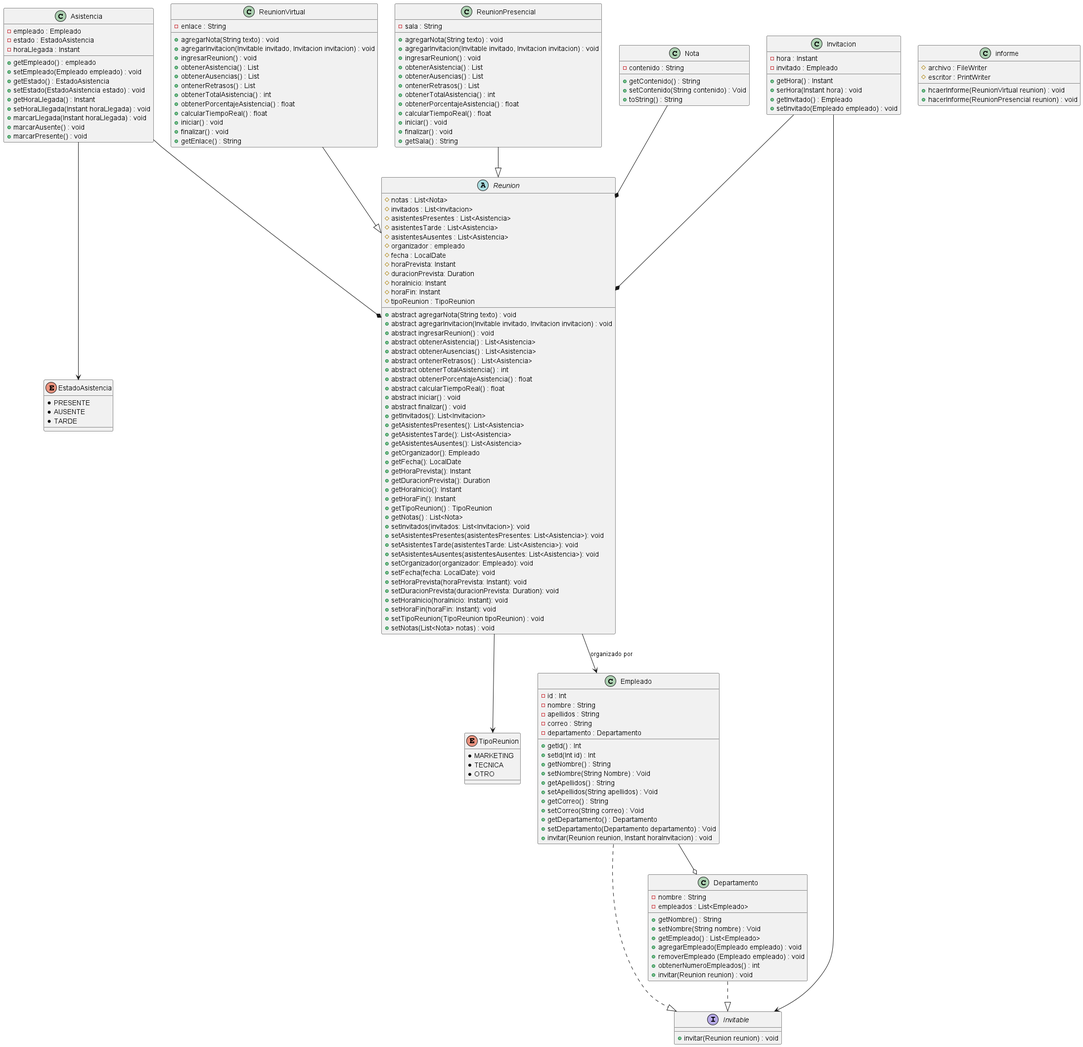
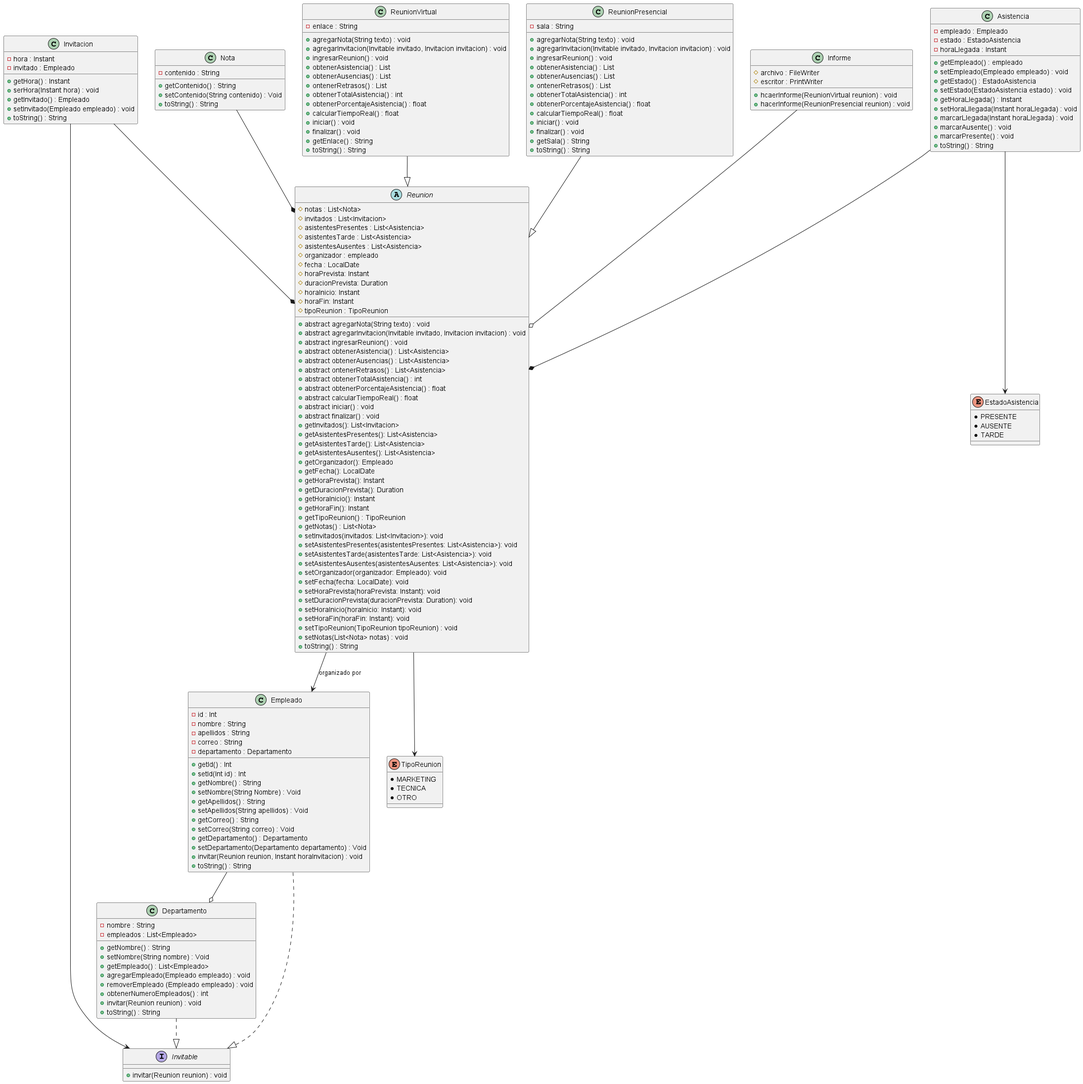
Updated UML, & javadoc, add metodo toString

diff --git a/JavaDoc/member-search-index.js b/JavaDoc/member-search-index.js
@@ -1,1 +1,1 @@
-memberSearchIndex = [{"p":"org.example","c":"Departamento","l":"agregarEmpleado(Empleado)","u":"agregarEmpleado(org.example.Empleado)"},{"p":"org.example","c":"Asistencia","l":"Asistencia(Empleado, EstadoAsistencia)","u":"%3Cinit%3E(org.example.Empleado,org.example.EstadoAsistencia)"},{"p":"org.example","c":"AsistenciaTest","l":"AsistenciaTest()","u":"%3Cinit%3E()"},{"p":"org.example","c":"EstadoAsistencia","l":"AUSENTE"},{"p":"org.example","c":"Departamento","l":"Departamento(String)","u":"%3Cinit%3E(java.lang.String)"},{"p":"org.example","c":"DepartamentoTest","l":"DepartamentoTest()","u":"%3Cinit%3E()"},{"p":"org.example","c":"Empleado","l":"Empleado(int, String, String, String)","u":"%3Cinit%3E(int,java.lang.String,java.lang.String,java.lang.String)"},{"p":"org.example","c":"Empleado","l":"getApellidos()"},{"p":"org.example","c":"Nota","l":"getContenido()"},{"p":"org.example","c":"Empleado","l":"getCorreo()"},{"p":"org.example","c":"Asistencia","l":"getEmpleado()"},{"p":"org.example","c":"Departamento","l":"getEmpleados()"},{"p":"org.example","c":"Asistencia","l":"getEstado()"},{"p":"org.example","c":"Invitacion","l":"getHora()"},{"p":"org.example","c":"Asistencia","l":"getHoraLlegada()"},{"p":"org.example","c":"Empleado","l":"getId()"},{"p":"org.example","c":"Invitacion","l":"getInvitado()"},{"p":"org.example","c":"Departamento","l":"getNombre()"},{"p":"org.example","c":"Empleado","l":"getNombre()"},{"p":"org.example","c":"Empleado","l":"getReuniones()"},{"p":"org.example","c":"Informe","l":"hacerInforme(ReunionPresencial)","u":"hacerInforme(org.example.ReunionPresencial)"},{"p":"org.example","c":"Informe","l":"hacerInforme(ReunionVirtual)","u":"hacerInforme(org.example.ReunionVirtual)"},{"p":"org.example","c":"Informe","l":"Informe()","u":"%3Cinit%3E()"},{"p":"org.example","c":"Invitacion","l":"Invitacion()","u":"%3Cinit%3E()"},{"p":"org.example","c":"Departamento","l":"invitar(Reunion)","u":"invitar(org.example.Reunion)"},{"p":"org.example","c":"Empleado","l":"invitar(Reunion)","u":"invitar(org.example.Reunion)"},{"p":"org.example","c":"Invitable","l":"invitar(Reunion)","u":"invitar(org.example.Reunion)"},{"p":"org.example","c":"Main","l":"Main()","u":"%3Cinit%3E()"},{"p":"org.example","c":"Main","l":"main(String[])","u":"main(java.lang.String[])"},{"p":"org.example","c":"Asistencia","l":"marcarAusente()"},{"p":"org.example","c":"Asistencia","l":"marcarLlegada(Instant)","u":"marcarLlegada(java.time.Instant)"},{"p":"org.example","c":"Asistencia","l":"marcarPresente()"},{"p":"org.example","c":"TipoReunion","l":"MARKETING"},{"p":"org.example","c":"Nota","l":"Nota(String)","u":"%3Cinit%3E(java.lang.String)"},{"p":"org.example","c":"NotaTest","l":"NotaTest()","u":"%3Cinit%3E()"},{"p":"org.example","c":"Departamento","l":"obtenerNumeroEmpleados()"},{"p":"org.example","c":"TipoReunion","l":"OTROS"},{"p":"org.example","c":"EstadoAsistencia","l":"PRESENTE"},{"p":"org.example","c":"Departamento","l":"removerEmpleado(Empleado)","u":"removerEmpleado(org.example.Empleado)"},{"p":"org.example","c":"Empleado","l":"setApellidos(String)","u":"setApellidos(java.lang.String)"},{"p":"org.example","c":"Nota","l":"setContenido(String)","u":"setContenido(java.lang.String)"},{"p":"org.example","c":"Empleado","l":"setCorreo(String)","u":"setCorreo(java.lang.String)"},{"p":"org.example","c":"Asistencia","l":"setEmpleado(Empleado)","u":"setEmpleado(org.example.Empleado)"},{"p":"org.example","c":"Asistencia","l":"setEstado(EstadoAsistencia)","u":"setEstado(org.example.EstadoAsistencia)"},{"p":"org.example","c":"Invitacion","l":"setHora(Instant)","u":"setHora(java.time.Instant)"},{"p":"org.example","c":"Asistencia","l":"setHoraLlegada(Instant)","u":"setHoraLlegada(java.time.Instant)"},{"p":"org.example","c":"Empleado","l":"setId(int)"},{"p":"org.example","c":"Invitacion","l":"setInvitado(Empleado)","u":"setInvitado(org.example.Empleado)"},{"p":"org.example","c":"Departamento","l":"setNombre(String)","u":"setNombre(java.lang.String)"},{"p":"org.example","c":"Empleado","l":"setNombre(String)","u":"setNombre(java.lang.String)"},{"p":"org.example","c":"EstadoAsistencia","l":"TARDE"},{"p":"org.example","c":"TipoReunion","l":"TECNICA"},{"p":"org.example","c":"DepartamentoTest","l":"testAgregarEmpleado()"},{"p":"org.example","c":"AsistenciaTest","l":"testConstructor_EmpleadoNulo()"},{"p":"org.example","c":"AsistenciaTest","l":"testConstructor_EstadoNulo()"},{"p":"org.example","c":"DepartamentoTest","l":"testConstructor_NombreNulo()"},{"p":"org.example","c":"DepartamentoTest","l":"testConstructor_NombreVacio()"},{"p":"org.example","c":"AsistenciaTest","l":"testConstructor()"},{"p":"org.example","c":"DepartamentoTest","l":"testConstructor()"},{"p":"org.example","c":"NotaTest","l":"testConstructorNota()"},{"p":"org.example","c":"NotaTest","l":"testConstructorNotaContenidoNulo()"},{"p":"org.example","c":"NotaTest","l":"testConstructorNotaContenidoVacio()"},{"p":"org.example","c":"DepartamentoTest","l":"testInvitar()"},{"p":"org.example","c":"AsistenciaTest","l":"testMarcarAusente()"},{"p":"org.example","c":"AsistenciaTest","l":"testMarcarLlegada()"},{"p":"org.example","c":"AsistenciaTest","l":"testMarcarPresente()"},{"p":"org.example","c":"DepartamentoTest","l":"testObtenerNumeroEmpleados()"},{"p":"org.example","c":"DepartamentoTest","l":"testRemoverEmpleado()"},{"p":"org.example","c":"NotaTest","l":"testSetContenido()"},{"p":"org.example","c":"Nota","l":"toString()"},{"p":"org.example","c":"EstadoAsistencia","l":"valueOf(String)","u":"valueOf(java.lang.String)"},{"p":"org.example","c":"TipoReunion","l":"valueOf(String)","u":"valueOf(java.lang.String)"},{"p":"org.example","c":"EstadoAsistencia","l":"values()"},{"p":"org.example","c":"TipoReunion","l":"values()"}];updateSearchResults();
+memberSearchIndex = [{"p":"org.example","c":"Departamento","l":"agregarEmpleado(Empleado)","u":"agregarEmpleado(org.example.Empleado)"},{"p":"org.example","c":"Asistencia","l":"Asistencia(Empleado, EstadoAsistencia)","u":"%3Cinit%3E(org.example.Empleado,org.example.EstadoAsistencia)"},{"p":"org.example","c":"AsistenciaTest","l":"AsistenciaTest()","u":"%3Cinit%3E()"},{"p":"org.example","c":"EstadoAsistencia","l":"AUSENTE"},{"p":"org.example","c":"Departamento","l":"Departamento(String)","u":"%3Cinit%3E(java.lang.String)"},{"p":"org.example","c":"DepartamentoTest","l":"DepartamentoTest()","u":"%3Cinit%3E()"},{"p":"org.example","c":"Empleado","l":"Empleado(int, String, String, String)","u":"%3Cinit%3E(int,java.lang.String,java.lang.String,java.lang.String)"},{"p":"org.example","c":"Empleado","l":"getApellidos()"},{"p":"org.example","c":"Nota","l":"getContenido()"},{"p":"org.example","c":"Empleado","l":"getCorreo()"},{"p":"org.example","c":"Asistencia","l":"getEmpleado()"},{"p":"org.example","c":"Departamento","l":"getEmpleados()"},{"p":"org.example","c":"Asistencia","l":"getEstado()"},{"p":"org.example","c":"Invitacion","l":"getHora()"},{"p":"org.example","c":"Asistencia","l":"getHoraLlegada()"},{"p":"org.example","c":"Empleado","l":"getId()"},{"p":"org.example","c":"Invitacion","l":"getInvitado()"},{"p":"org.example","c":"Departamento","l":"getNombre()"},{"p":"org.example","c":"Empleado","l":"getNombre()"},{"p":"org.example","c":"Empleado","l":"getReuniones()"},{"p":"org.example","c":"Informe","l":"hacerInforme(ReunionPresencial)","u":"hacerInforme(org.example.ReunionPresencial)"},{"p":"org.example","c":"Informe","l":"hacerInforme(ReunionVirtual)","u":"hacerInforme(org.example.ReunionVirtual)"},{"p":"org.example","c":"Informe","l":"Informe()","u":"%3Cinit%3E()"},{"p":"org.example","c":"Invitacion","l":"Invitacion()","u":"%3Cinit%3E()"},{"p":"org.example","c":"Departamento","l":"invitar(Reunion)","u":"invitar(org.example.Reunion)"},{"p":"org.example","c":"Empleado","l":"invitar(Reunion)","u":"invitar(org.example.Reunion)"},{"p":"org.example","c":"Invitable","l":"invitar(Reunion)","u":"invitar(org.example.Reunion)"},{"p":"org.example","c":"Main","l":"Main()","u":"%3Cinit%3E()"},{"p":"org.example","c":"Main","l":"main(String[])","u":"main(java.lang.String[])"},{"p":"org.example","c":"Asistencia","l":"marcarAusente()"},{"p":"org.example","c":"Asistencia","l":"marcarLlegada(Instant)","u":"marcarLlegada(java.time.Instant)"},{"p":"org.example","c":"Asistencia","l":"marcarPresente()"},{"p":"org.example","c":"TipoReunion","l":"MARKETING"},{"p":"org.example","c":"Nota","l":"Nota(String)","u":"%3Cinit%3E(java.lang.String)"},{"p":"org.example","c":"NotaTest","l":"NotaTest()","u":"%3Cinit%3E()"},{"p":"org.example","c":"Departamento","l":"obtenerNumeroEmpleados()"},{"p":"org.example","c":"TipoReunion","l":"OTROS"},{"p":"org.example","c":"EstadoAsistencia","l":"PRESENTE"},{"p":"org.example","c":"Departamento","l":"removerEmpleado(Empleado)","u":"removerEmpleado(org.example.Empleado)"},{"p":"org.example","c":"Empleado","l":"setApellidos(String)","u":"setApellidos(java.lang.String)"},{"p":"org.example","c":"Nota","l":"setContenido(String)","u":"setContenido(java.lang.String)"},{"p":"org.example","c":"Empleado","l":"setCorreo(String)","u":"setCorreo(java.lang.String)"},{"p":"org.example","c":"Asistencia","l":"setEmpleado(Empleado)","u":"setEmpleado(org.example.Empleado)"},{"p":"org.example","c":"Asistencia","l":"setEstado(EstadoAsistencia)","u":"setEstado(org.example.EstadoAsistencia)"},{"p":"org.example","c":"Invitacion","l":"setHora(Instant)","u":"setHora(java.time.Instant)"},{"p":"org.example","c":"Asistencia","l":"setHoraLlegada(Instant)","u":"setHoraLlegada(java.time.Instant)"},{"p":"org.example","c":"Empleado","l":"setId(int)"},{"p":"org.example","c":"Invitacion","l":"setInvitado(Empleado)","u":"setInvitado(org.example.Empleado)"},{"p":"org.example","c":"Departamento","l":"setNombre(String)","u":"setNombre(java.lang.String)"},{"p":"org.example","c":"Empleado","l":"setNombre(String)","u":"setNombre(java.lang.String)"},{"p":"org.example","c":"EstadoAsistencia","l":"TARDE"},{"p":"org.example","c":"TipoReunion","l":"TECNICA"},{"p":"org.example","c":"DepartamentoTest","l":"testAgregarEmpleado()"},{"p":"org.example","c":"AsistenciaTest","l":"testConstructor_EmpleadoNulo()"},{"p":"org.example","c":"AsistenciaTest","l":"testConstructor_EstadoNulo()"},{"p":"org.example","c":"DepartamentoTest","l":"testConstructor_NombreNulo()"},{"p":"org.example","c":"DepartamentoTest","l":"testConstructor_NombreVacio()"},{"p":"org.example","c":"AsistenciaTest","l":"testConstructor()"},{"p":"org.example","c":"DepartamentoTest","l":"testConstructor()"},{"p":"org.example","c":"NotaTest","l":"testConstructorNota()"},{"p":"org.example","c":"NotaTest","l":"testConstructorNotaContenidoNulo()"},{"p":"org.example","c":"NotaTest","l":"testConstructorNotaContenidoVacio()"},{"p":"org.example","c":"DepartamentoTest","l":"testInvitar()"},{"p":"org.example","c":"AsistenciaTest","l":"testMarcarAusente()"},{"p":"org.example","c":"AsistenciaTest","l":"testMarcarLlegada()"},{"p":"org.example","c":"AsistenciaTest","l":"testMarcarPresente()"},{"p":"org.example","c":"DepartamentoTest","l":"testObtenerNumeroEmpleados()"},{"p":"org.example","c":"DepartamentoTest","l":"testRemoverEmpleado()"},{"p":"org.example","c":"NotaTest","l":"testSetContenido()"},{"p":"org.example","c":"Asistencia","l":"toString()"},{"p":"org.example","c":"Departamento","l":"toString()"},{"p":"org.example","c":"Empleado","l":"toString()"},{"p":"org.example","c":"Invitacion","l":"toString()"},{"p":"org.example","c":"Nota","l":"toString()"},{"p":"org.example","c":"EstadoAsistencia","l":"valueOf(String)","u":"valueOf(java.lang.String)"},{"p":"org.example","c":"TipoReunion","l":"valueOf(String)","u":"valueOf(java.lang.String)"},{"p":"org.example","c":"EstadoAsistencia","l":"values()"},{"p":"org.example","c":"TipoReunion","l":"values()"}];updateSearchResults();

diff --git a/JavaDoc/org/example/Departamento.html b/JavaDoc/org/example/Departamento.html
@@ -1,7 +1,7 @@
 <!DOCTYPE HTML>
 <html lang="en">
 <head>
-<!-- Generated by javadoc (22) on Thu May 16 05:26:33 CLT 2024 -->
+<!-- Generated by javadoc (22) on Thu May 16 06:13:41 CLT 2024 -->
 <title>Departamento</title>
 <meta name="viewport" content="width=device-width, initial-scale=1">
 <meta http-equiv="Content-Type" content="text/html; charset=utf-8">
@@ -163,12 +163,17 @@ implements <a href="Invitable.html" title="interface in org.example">Invitable</
 <div class="col-last even-row-color method-summary-table method-summary-table-tab2 method-summary-table-tab4">
 <div class="block">Establece el nombre del departamento.</div>
 </div>
+<div class="col-first odd-row-color method-summary-table method-summary-table-tab2 method-summary-table-tab4"><code><a href="https://docs.oracle.com/en/java/javase/22/docs/api/java.base/java/lang/String.html" title="class or interface in java.lang" class="external-link">String</a></code></div>
+<div class="col-second odd-row-color method-summary-table method-summary-table-tab2 method-summary-table-tab4"><code><a href="#toString()" class="member-name-link">toString</a>()</code></div>
+<div class="col-last odd-row-color method-summary-table method-summary-table-tab2 method-summary-table-tab4">
+<div class="block">Devuelve una representación de cadena de este objeto.</div>
+</div>
 </div>
 </div>
 </div>
 <div class="inherited-list">
 <h3 id="methods-inherited-from-class-java.lang.Object">Methods inherited from class&nbsp;java.lang.<a href="https://docs.oracle.com/en/java/javase/22/docs/api/java.base/java/lang/Object.html" title="class or interface in java.lang" class="external-link">Object</a></h3>
-<code><a href="https://docs.oracle.com/en/java/javase/22/docs/api/java.base/java/lang/Object.html#clone()" title="class or interface in java.lang" class="external-link">clone</a>, <a href="https://docs.oracle.com/en/java/javase/22/docs/api/java.base/java/lang/Object.html#equals(java.lang.Object)" title="class or interface in java.lang" class="external-link">equals</a>, <a href="https://docs.oracle.com/en/java/javase/22/docs/api/java.base/java/lang/Object.html#finalize()" title="class or interface in java.lang" class="external-link">finalize</a>, <a href="https://docs.oracle.com/en/java/javase/22/docs/api/java.base/java/lang/Object.html#getClass()" title="class or interface in java.lang" class="external-link">getClass</a>, <a href="https://docs.oracle.com/en/java/javase/22/docs/api/java.base/java/lang/Object.html#hashCode()" title="class or interface in java.lang" class="external-link">hashCode</a>, <a href="https://docs.oracle.com/en/java/javase/22/docs/api/java.base/java/lang/Object.html#notify()" title="class or interface in java.lang" class="external-link">notify</a>, <a href="https://docs.oracle.com/en/java/javase/22/docs/api/java.base/java/lang/Object.html#notifyAll()" title="class or interface in java.lang" class="external-link">notifyAll</a>, <a href="https://docs.oracle.com/en/java/javase/22/docs/api/java.base/java/lang/Object.html#toString()" title="class or interface in java.lang" class="external-link">toString</a>, <a href="https://docs.oracle.com/en/java/javase/22/docs/api/java.base/java/lang/Object.html#wait()" title="class or interface in java.lang" class="external-link">wait</a>, <a href="https://docs.oracle.com/en/java/javase/22/docs/api/java.base/java/lang/Object.html#wait(long)" title="class or interface in java.lang" class="external-link">wait</a>, <a href="https://docs.oracle.com/en/java/javase/22/docs/api/java.base/java/lang/Object.html#wait(long,int)" title="class or interface in java.lang" class="external-link">wait</a></code></div>
+<code><a href="https://docs.oracle.com/en/java/javase/22/docs/api/java.base/java/lang/Object.html#clone()" title="class or interface in java.lang" class="external-link">clone</a>, <a href="https://docs.oracle.com/en/java/javase/22/docs/api/java.base/java/lang/Object.html#equals(java.lang.Object)" title="class or interface in java.lang" class="external-link">equals</a>, <a href="https://docs.oracle.com/en/java/javase/22/docs/api/java.base/java/lang/Object.html#finalize()" title="class or interface in java.lang" class="external-link">finalize</a>, <a href="https://docs.oracle.com/en/java/javase/22/docs/api/java.base/java/lang/Object.html#getClass()" title="class or interface in java.lang" class="external-link">getClass</a>, <a href="https://docs.oracle.com/en/java/javase/22/docs/api/java.base/java/lang/Object.html#hashCode()" title="class or interface in java.lang" class="external-link">hashCode</a>, <a href="https://docs.oracle.com/en/java/javase/22/docs/api/java.base/java/lang/Object.html#notify()" title="class or interface in java.lang" class="external-link">notify</a>, <a href="https://docs.oracle.com/en/java/javase/22/docs/api/java.base/java/lang/Object.html#notifyAll()" title="class or interface in java.lang" class="external-link">notifyAll</a>, <a href="https://docs.oracle.com/en/java/javase/22/docs/api/java.base/java/lang/Object.html#wait()" title="class or interface in java.lang" class="external-link">wait</a>, <a href="https://docs.oracle.com/en/java/javase/22/docs/api/java.base/java/lang/Object.html#wait(long)" title="class or interface in java.lang" class="external-link">wait</a>, <a href="https://docs.oracle.com/en/java/javase/22/docs/api/java.base/java/lang/Object.html#wait(long,int)" title="class or interface in java.lang" class="external-link">wait</a></code></div>
 </section>
 </li>
 </ul>
@@ -292,6 +297,21 @@ implements <a href="Invitable.html" title="interface in org.example">Invitable</
 <dd><code><a href="Invitable.html#invitar(org.example.Reunion)">invitar</a></code>&nbsp;in interface&nbsp;<code><a href="Invitable.html" title="interface in org.example">Invitable</a></code></dd>
 <dt>Parameters:</dt>
 <dd><code>reunion</code> - La reunión a la que se invita a los empleados.</dd>
+</dl>
+</div>
+</section>
+</li>
+<li>
+<section class="detail" id="toString()">
+<h3>toString</h3>
+<div class="horizontal-scroll">
+<div class="member-signature"><span class="modifiers">public</span>&nbsp;<span class="return-type"><a href="https://docs.oracle.com/en/java/javase/22/docs/api/java.base/java/lang/String.html" title="class or interface in java.lang" class="external-link">String</a></span>&nbsp;<span class="element-name">toString</span>()</div>
+<div class="block">Devuelve una representación de cadena de este objeto.</div>
+<dl class="notes">
+<dt>Overrides:</dt>
+<dd><code><a href="https://docs.oracle.com/en/java/javase/22/docs/api/java.base/java/lang/Object.html#toString()" title="class or interface in java.lang" class="external-link">toString</a></code>&nbsp;in class&nbsp;<code><a href="https://docs.oracle.com/en/java/javase/22/docs/api/java.base/java/lang/Object.html" title="class or interface in java.lang" class="external-link">Object</a></code></dd>
+<dt>Returns:</dt>
+<dd>Una cadena que representa el objeto Departamento.</dd>
 </dl>
 </div>
 </section>

diff --git a/JavaDoc/org/example/Empleado.html b/JavaDoc/org/example/Empleado.html
@@ -1,7 +1,7 @@
 <!DOCTYPE HTML>
 <html lang="en">
 <head>
-<!-- Generated by javadoc (22) on Thu May 16 05:26:33 CLT 2024 -->
+<!-- Generated by javadoc (22) on Thu May 16 06:13:41 CLT 2024 -->
 <title>Empleado</title>
 <meta name="viewport" content="width=device-width, initial-scale=1">
 <meta http-equiv="Content-Type" content="text/html; charset=utf-8">
@@ -181,12 +181,17 @@ implements <a href="Invitable.html" title="interface in org.example">Invitable</
 <div class="col-last odd-row-color method-summary-table method-summary-table-tab2 method-summary-table-tab4">
 <div class="block">Establece el nombre del empleado.</div>
 </div>
+<div class="col-first even-row-color method-summary-table method-summary-table-tab2 method-summary-table-tab4"><code><a href="https://docs.oracle.com/en/java/javase/22/docs/api/java.base/java/lang/String.html" title="class or interface in java.lang" class="external-link">String</a></code></div>
+<div class="col-second even-row-color method-summary-table method-summary-table-tab2 method-summary-table-tab4"><code><a href="#toString()" class="member-name-link">toString</a>()</code></div>
+<div class="col-last even-row-color method-summary-table method-summary-table-tab2 method-summary-table-tab4">
+<div class="block">Devuelve una representación de cadena de este objeto.</div>
+</div>
 </div>
 </div>
 </div>
 <div class="inherited-list">
 <h3 id="methods-inherited-from-class-java.lang.Object">Methods inherited from class&nbsp;java.lang.<a href="https://docs.oracle.com/en/java/javase/22/docs/api/java.base/java/lang/Object.html" title="class or interface in java.lang" class="external-link">Object</a></h3>
-<code><a href="https://docs.oracle.com/en/java/javase/22/docs/api/java.base/java/lang/Object.html#clone()" title="class or interface in java.lang" class="external-link">clone</a>, <a href="https://docs.oracle.com/en/java/javase/22/docs/api/java.base/java/lang/Object.html#equals(java.lang.Object)" title="class or interface in java.lang" class="external-link">equals</a>, <a href="https://docs.oracle.com/en/java/javase/22/docs/api/java.base/java/lang/Object.html#finalize()" title="class or interface in java.lang" class="external-link">finalize</a>, <a href="https://docs.oracle.com/en/java/javase/22/docs/api/java.base/java/lang/Object.html#getClass()" title="class or interface in java.lang" class="external-link">getClass</a>, <a href="https://docs.oracle.com/en/java/javase/22/docs/api/java.base/java/lang/Object.html#hashCode()" title="class or interface in java.lang" class="external-link">hashCode</a>, <a href="https://docs.oracle.com/en/java/javase/22/docs/api/java.base/java/lang/Object.html#notify()" title="class or interface in java.lang" class="external-link">notify</a>, <a href="https://docs.oracle.com/en/java/javase/22/docs/api/java.base/java/lang/Object.html#notifyAll()" title="class or interface in java.lang" class="external-link">notifyAll</a>, <a href="https://docs.oracle.com/en/java/javase/22/docs/api/java.base/java/lang/Object.html#toString()" title="class or interface in java.lang" class="external-link">toString</a>, <a href="https://docs.oracle.com/en/java/javase/22/docs/api/java.base/java/lang/Object.html#wait()" title="class or interface in java.lang" class="external-link">wait</a>, <a href="https://docs.oracle.com/en/java/javase/22/docs/api/java.base/java/lang/Object.html#wait(long)" title="class or interface in java.lang" class="external-link">wait</a>, <a href="https://docs.oracle.com/en/java/javase/22/docs/api/java.base/java/lang/Object.html#wait(long,int)" title="class or interface in java.lang" class="external-link">wait</a></code></div>
+<code><a href="https://docs.oracle.com/en/java/javase/22/docs/api/java.base/java/lang/Object.html#clone()" title="class or interface in java.lang" class="external-link">clone</a>, <a href="https://docs.oracle.com/en/java/javase/22/docs/api/java.base/java/lang/Object.html#equals(java.lang.Object)" title="class or interface in java.lang" class="external-link">equals</a>, <a href="https://docs.oracle.com/en/java/javase/22/docs/api/java.base/java/lang/Object.html#finalize()" title="class or interface in java.lang" class="external-link">finalize</a>, <a href="https://docs.oracle.com/en/java/javase/22/docs/api/java.base/java/lang/Object.html#getClass()" title="class or interface in java.lang" class="external-link">getClass</a>, <a href="https://docs.oracle.com/en/java/javase/22/docs/api/java.base/java/lang/Object.html#hashCode()" title="class or interface in java.lang" class="external-link">hashCode</a>, <a href="https://docs.oracle.com/en/java/javase/22/docs/api/java.base/java/lang/Object.html#notify()" title="class or interface in java.lang" class="external-link">notify</a>, <a href="https://docs.oracle.com/en/java/javase/22/docs/api/java.base/java/lang/Object.html#notifyAll()" title="class or interface in java.lang" class="external-link">notifyAll</a>, <a href="https://docs.oracle.com/en/java/javase/22/docs/api/java.base/java/lang/Object.html#wait()" title="class or interface in java.lang" class="external-link">wait</a>, <a href="https://docs.oracle.com/en/java/javase/22/docs/api/java.base/java/lang/Object.html#wait(long)" title="class or interface in java.lang" class="external-link">wait</a>, <a href="https://docs.oracle.com/en/java/javase/22/docs/api/java.base/java/lang/Object.html#wait(long,int)" title="class or interface in java.lang" class="external-link">wait</a></code></div>
 </section>
 </li>
 </ul>
@@ -355,6 +360,21 @@ implements <a href="Invitable.html" title="interface in org.example">Invitable</
 <dd><code><a href="Invitable.html#invitar(org.example.Reunion)">invitar</a></code>&nbsp;in interface&nbsp;<code><a href="Invitable.html" title="interface in org.example">Invitable</a></code></dd>
 <dt>Parameters:</dt>
 <dd><code>reunion</code> - La reunión a la que se invita al empleado.</dd>
+</dl>
+</div>
+</section>
+</li>
+<li>
+<section class="detail" id="toString()">
+<h3>toString</h3>
+<div class="horizontal-scroll">
+<div class="member-signature"><span class="modifiers">public</span>&nbsp;<span class="return-type"><a href="https://docs.oracle.com/en/java/javase/22/docs/api/java.base/java/lang/String.html" title="class or interface in java.lang" class="external-link">String</a></span>&nbsp;<span class="element-name">toString</span>()</div>
+<div class="block">Devuelve una representación de cadena de este objeto.</div>
+<dl class="notes">
+<dt>Overrides:</dt>
+<dd><code><a href="https://docs.oracle.com/en/java/javase/22/docs/api/java.base/java/lang/Object.html#toString()" title="class or interface in java.lang" class="external-link">toString</a></code>&nbsp;in class&nbsp;<code><a href="https://docs.oracle.com/en/java/javase/22/docs/api/java.base/java/lang/Object.html" title="class or interface in java.lang" class="external-link">Object</a></code></dd>
+<dt>Returns:</dt>
+<dd>Una cadena que representa el objeto Empleado.</dd>
 </dl>
 </div>
 </section>

diff --git a/JavaDoc/org/example/Asistencia.html b/JavaDoc/org/example/Asistencia.html
@@ -1,7 +1,7 @@
 <!DOCTYPE HTML>
 <html lang="en">
 <head>
-<!-- Generated by javadoc (22) on Thu May 16 05:26:33 CLT 2024 -->
+<!-- Generated by javadoc (22) on Thu May 16 06:13:41 CLT 2024 -->
 <title>Asistencia</title>
 <meta name="viewport" content="width=device-width, initial-scale=1">
 <meta http-equiv="Content-Type" content="text/html; charset=utf-8">
@@ -169,12 +169,17 @@ loadScripts(document, 'script');</script>
 <div class="col-last even-row-color method-summary-table method-summary-table-tab2 method-summary-table-tab4">
 <div class="block">Establece la hora de llegada del empleado.</div>
 </div>
+<div class="col-first odd-row-color method-summary-table method-summary-table-tab2 method-summary-table-tab4"><code><a href="https://docs.oracle.com/en/java/javase/22/docs/api/java.base/java/lang/String.html" title="class or interface in java.lang" class="external-link">String</a></code></div>
+<div class="col-second odd-row-color method-summary-table method-summary-table-tab2 method-summary-table-tab4"><code><a href="#toString()" class="member-name-link">toString</a>()</code></div>
+<div class="col-last odd-row-color method-summary-table method-summary-table-tab2 method-summary-table-tab4">
+<div class="block">Devuelve una representación de cadena de este objeto.</div>
+</div>
 </div>
 </div>
 </div>
 <div class="inherited-list">
 <h3 id="methods-inherited-from-class-java.lang.Object">Methods inherited from class&nbsp;java.lang.<a href="https://docs.oracle.com/en/java/javase/22/docs/api/java.base/java/lang/Object.html" title="class or interface in java.lang" class="external-link">Object</a></h3>
-<code><a href="https://docs.oracle.com/en/java/javase/22/docs/api/java.base/java/lang/Object.html#clone()" title="class or interface in java.lang" class="external-link">clone</a>, <a href="https://docs.oracle.com/en/java/javase/22/docs/api/java.base/java/lang/Object.html#equals(java.lang.Object)" title="class or interface in java.lang" class="external-link">equals</a>, <a href="https://docs.oracle.com/en/java/javase/22/docs/api/java.base/java/lang/Object.html#finalize()" title="class or interface in java.lang" class="external-link">finalize</a>, <a href="https://docs.oracle.com/en/java/javase/22/docs/api/java.base/java/lang/Object.html#getClass()" title="class or interface in java.lang" class="external-link">getClass</a>, <a href="https://docs.oracle.com/en/java/javase/22/docs/api/java.base/java/lang/Object.html#hashCode()" title="class or interface in java.lang" class="external-link">hashCode</a>, <a href="https://docs.oracle.com/en/java/javase/22/docs/api/java.base/java/lang/Object.html#notify()" title="class or interface in java.lang" class="external-link">notify</a>, <a href="https://docs.oracle.com/en/java/javase/22/docs/api/java.base/java/lang/Object.html#notifyAll()" title="class or interface in java.lang" class="external-link">notifyAll</a>, <a href="https://docs.oracle.com/en/java/javase/22/docs/api/java.base/java/lang/Object.html#toString()" title="class or interface in java.lang" class="external-link">toString</a>, <a href="https://docs.oracle.com/en/java/javase/22/docs/api/java.base/java/lang/Object.html#wait()" title="class or interface in java.lang" class="external-link">wait</a>, <a href="https://docs.oracle.com/en/java/javase/22/docs/api/java.base/java/lang/Object.html#wait(long)" title="class or interface in java.lang" class="external-link">wait</a>, <a href="https://docs.oracle.com/en/java/javase/22/docs/api/java.base/java/lang/Object.html#wait(long,int)" title="class or interface in java.lang" class="external-link">wait</a></code></div>
+<code><a href="https://docs.oracle.com/en/java/javase/22/docs/api/java.base/java/lang/Object.html#clone()" title="class or interface in java.lang" class="external-link">clone</a>, <a href="https://docs.oracle.com/en/java/javase/22/docs/api/java.base/java/lang/Object.html#equals(java.lang.Object)" title="class or interface in java.lang" class="external-link">equals</a>, <a href="https://docs.oracle.com/en/java/javase/22/docs/api/java.base/java/lang/Object.html#finalize()" title="class or interface in java.lang" class="external-link">finalize</a>, <a href="https://docs.oracle.com/en/java/javase/22/docs/api/java.base/java/lang/Object.html#getClass()" title="class or interface in java.lang" class="external-link">getClass</a>, <a href="https://docs.oracle.com/en/java/javase/22/docs/api/java.base/java/lang/Object.html#hashCode()" title="class or interface in java.lang" class="external-link">hashCode</a>, <a href="https://docs.oracle.com/en/java/javase/22/docs/api/java.base/java/lang/Object.html#notify()" title="class or interface in java.lang" class="external-link">notify</a>, <a href="https://docs.oracle.com/en/java/javase/22/docs/api/java.base/java/lang/Object.html#notifyAll()" title="class or interface in java.lang" class="external-link">notifyAll</a>, <a href="https://docs.oracle.com/en/java/javase/22/docs/api/java.base/java/lang/Object.html#wait()" title="class or interface in java.lang" class="external-link">wait</a>, <a href="https://docs.oracle.com/en/java/javase/22/docs/api/java.base/java/lang/Object.html#wait(long)" title="class or interface in java.lang" class="external-link">wait</a>, <a href="https://docs.oracle.com/en/java/javase/22/docs/api/java.base/java/lang/Object.html#wait(long,int)" title="class or interface in java.lang" class="external-link">wait</a></code></div>
 </section>
 </li>
 </ul>
@@ -317,6 +322,21 @@ loadScripts(document, 'script');</script>
 <div class="horizontal-scroll">
 <div class="member-signature"><span class="modifiers">public</span>&nbsp;<span class="return-type">void</span>&nbsp;<span class="element-name">marcarPresente</span>()</div>
 <div class="block">Marca al empleado como presente.</div>
+</div>
+</section>
+</li>
+<li>
+<section class="detail" id="toString()">
+<h3>toString</h3>
+<div class="horizontal-scroll">
+<div class="member-signature"><span class="modifiers">public</span>&nbsp;<span class="return-type"><a href="https://docs.oracle.com/en/java/javase/22/docs/api/java.base/java/lang/String.html" title="class or interface in java.lang" class="external-link">String</a></span>&nbsp;<span class="element-name">toString</span>()</div>
+<div class="block">Devuelve una representación de cadena de este objeto.</div>
+<dl class="notes">
+<dt>Overrides:</dt>
+<dd><code><a href="https://docs.oracle.com/en/java/javase/22/docs/api/java.base/java/lang/Object.html#toString()" title="class or interface in java.lang" class="external-link">toString</a></code>&nbsp;in class&nbsp;<code><a href="https://docs.oracle.com/en/java/javase/22/docs/api/java.base/java/lang/Object.html" title="class or interface in java.lang" class="external-link">Object</a></code></dd>
+<dt>Returns:</dt>
+<dd>Una cadena que representa el objeto Asistencia.</dd>
+</dl>
 </div>
 </section>
 </li>

diff --git a/JavaDoc/org/example/Invitacion.html b/JavaDoc/org/example/Invitacion.html
@@ -1,7 +1,7 @@
 <!DOCTYPE HTML>
 <html lang="en">
 <head>
-<!-- Generated by javadoc (22) on Thu May 16 05:26:33 CLT 2024 -->
+<!-- Generated by javadoc (22) on Thu May 16 06:13:41 CLT 2024 -->
 <title>Invitacion</title>
 <meta name="viewport" content="width=device-width, initial-scale=1">
 <meta http-equiv="Content-Type" content="text/html; charset=utf-8">
@@ -142,12 +142,17 @@ loadScripts(document, 'script');</script>
 <div class="col-last odd-row-color method-summary-table method-summary-table-tab2 method-summary-table-tab4">
 <div class="block">Establece el empleado invitado.</div>
 </div>
+<div class="col-first even-row-color method-summary-table method-summary-table-tab2 method-summary-table-tab4"><code><a href="https://docs.oracle.com/en/java/javase/22/docs/api/java.base/java/lang/String.html" title="class or interface in java.lang" class="external-link">String</a></code></div>
+<div class="col-second even-row-color method-summary-table method-summary-table-tab2 method-summary-table-tab4"><code><a href="#toString()" class="member-name-link">toString</a>()</code></div>
+<div class="col-last even-row-color method-summary-table method-summary-table-tab2 method-summary-table-tab4">
+<div class="block">Devuelve una representación de cadena de este objeto.</div>
+</div>
 </div>
 </div>
 </div>
 <div class="inherited-list">
 <h3 id="methods-inherited-from-class-java.lang.Object">Methods inherited from class&nbsp;java.lang.<a href="https://docs.oracle.com/en/java/javase/22/docs/api/java.base/java/lang/Object.html" title="class or interface in java.lang" class="external-link">Object</a></h3>
-<code><a href="https://docs.oracle.com/en/java/javase/22/docs/api/java.base/java/lang/Object.html#clone()" title="class or interface in java.lang" class="external-link">clone</a>, <a href="https://docs.oracle.com/en/java/javase/22/docs/api/java.base/java/lang/Object.html#equals(java.lang.Object)" title="class or interface in java.lang" class="external-link">equals</a>, <a href="https://docs.oracle.com/en/java/javase/22/docs/api/java.base/java/lang/Object.html#finalize()" title="class or interface in java.lang" class="external-link">finalize</a>, <a href="https://docs.oracle.com/en/java/javase/22/docs/api/java.base/java/lang/Object.html#getClass()" title="class or interface in java.lang" class="external-link">getClass</a>, <a href="https://docs.oracle.com/en/java/javase/22/docs/api/java.base/java/lang/Object.html#hashCode()" title="class or interface in java.lang" class="external-link">hashCode</a>, <a href="https://docs.oracle.com/en/java/javase/22/docs/api/java.base/java/lang/Object.html#notify()" title="class or interface in java.lang" class="external-link">notify</a>, <a href="https://docs.oracle.com/en/java/javase/22/docs/api/java.base/java/lang/Object.html#notifyAll()" title="class or interface in java.lang" class="external-link">notifyAll</a>, <a href="https://docs.oracle.com/en/java/javase/22/docs/api/java.base/java/lang/Object.html#toString()" title="class or interface in java.lang" class="external-link">toString</a>, <a href="https://docs.oracle.com/en/java/javase/22/docs/api/java.base/java/lang/Object.html#wait()" title="class or interface in java.lang" class="external-link">wait</a>, <a href="https://docs.oracle.com/en/java/javase/22/docs/api/java.base/java/lang/Object.html#wait(long)" title="class or interface in java.lang" class="external-link">wait</a>, <a href="https://docs.oracle.com/en/java/javase/22/docs/api/java.base/java/lang/Object.html#wait(long,int)" title="class or interface in java.lang" class="external-link">wait</a></code></div>
+<code><a href="https://docs.oracle.com/en/java/javase/22/docs/api/java.base/java/lang/Object.html#clone()" title="class or interface in java.lang" class="external-link">clone</a>, <a href="https://docs.oracle.com/en/java/javase/22/docs/api/java.base/java/lang/Object.html#equals(java.lang.Object)" title="class or interface in java.lang" class="external-link">equals</a>, <a href="https://docs.oracle.com/en/java/javase/22/docs/api/java.base/java/lang/Object.html#finalize()" title="class or interface in java.lang" class="external-link">finalize</a>, <a href="https://docs.oracle.com/en/java/javase/22/docs/api/java.base/java/lang/Object.html#getClass()" title="class or interface in java.lang" class="external-link">getClass</a>, <a href="https://docs.oracle.com/en/java/javase/22/docs/api/java.base/java/lang/Object.html#hashCode()" title="class or interface in java.lang" class="external-link">hashCode</a>, <a href="https://docs.oracle.com/en/java/javase/22/docs/api/java.base/java/lang/Object.html#notify()" title="class or interface in java.lang" class="external-link">notify</a>, <a href="https://docs.oracle.com/en/java/javase/22/docs/api/java.base/java/lang/Object.html#notifyAll()" title="class or interface in java.lang" class="external-link">notifyAll</a>, <a href="https://docs.oracle.com/en/java/javase/22/docs/api/java.base/java/lang/Object.html#wait()" title="class or interface in java.lang" class="external-link">wait</a>, <a href="https://docs.oracle.com/en/java/javase/22/docs/api/java.base/java/lang/Object.html#wait(long)" title="class or interface in java.lang" class="external-link">wait</a>, <a href="https://docs.oracle.com/en/java/javase/22/docs/api/java.base/java/lang/Object.html#wait(long,int)" title="class or interface in java.lang" class="external-link">wait</a></code></div>
 </section>
 </li>
 </ul>
@@ -225,6 +230,21 @@ loadScripts(document, 'script');</script>
 <dl class="notes">
 <dt>Parameters:</dt>
 <dd><code>invitado</code> - El empleado invitado a establecer.</dd>
+</dl>
+</div>
+</section>
+</li>
+<li>
+<section class="detail" id="toString()">
+<h3>toString</h3>
+<div class="horizontal-scroll">
+<div class="member-signature"><span class="modifiers">public</span>&nbsp;<span class="return-type"><a href="https://docs.oracle.com/en/java/javase/22/docs/api/java.base/java/lang/String.html" title="class or interface in java.lang" class="external-link">String</a></span>&nbsp;<span class="element-name">toString</span>()</div>
+<div class="block">Devuelve una representación de cadena de este objeto.</div>
+<dl class="notes">
+<dt>Overrides:</dt>
+<dd><code><a href="https://docs.oracle.com/en/java/javase/22/docs/api/java.base/java/lang/Object.html#toString()" title="class or interface in java.lang" class="external-link">toString</a></code>&nbsp;in class&nbsp;<code><a href="https://docs.oracle.com/en/java/javase/22/docs/api/java.base/java/lang/Object.html" title="class or interface in java.lang" class="external-link">Object</a></code></dd>
+<dt>Returns:</dt>
+<dd>Una cadena que representa el objeto Invitacion.</dd>
 </dl>
 </div>
 </section>

diff --git a/JavaDoc/index-files/index-13.html b/JavaDoc/index-files/index-13.html
@@ -1,7 +1,7 @@
 <!DOCTYPE HTML>
 <html lang="en">
 <head>
-<!-- Generated by javadoc (22) on Thu May 16 05:26:33 CLT 2024 -->
+<!-- Generated by javadoc (22) on Thu May 16 06:13:41 CLT 2024 -->
 <title>T-Index</title>
 <meta name="viewport" content="width=device-width, initial-scale=1">
 <meta http-equiv="Content-Type" content="text/html; charset=utf-8">
@@ -130,6 +130,22 @@ loadScripts(document, 'script');</script>
 <dt><a href="../org/example/TipoReunion.html" class="type-name-link" title="enum class in org.example">TipoReunion</a> - Enum Class in <a href="../org/example/package-summary.html">org.example</a></dt>
 <dd>
 <div class="block">Enumeración que representa los tipos de reuniones disponibles.</div>
+</dd>
+<dt><a href="../org/example/Asistencia.html#toString()" class="member-name-link">toString()</a> - Method in class org.example.<a href="../org/example/Asistencia.html" title="class in org.example">Asistencia</a></dt>
+<dd>
+<div class="block">Devuelve una representación de cadena de este objeto.</div>
+</dd>
+<dt><a href="../org/example/Departamento.html#toString()" class="member-name-link">toString()</a> - Method in class org.example.<a href="../org/example/Departamento.html" title="class in org.example">Departamento</a></dt>
+<dd>
+<div class="block">Devuelve una representación de cadena de este objeto.</div>
+</dd>
+<dt><a href="../org/example/Empleado.html#toString()" class="member-name-link">toString()</a> - Method in class org.example.<a href="../org/example/Empleado.html" title="class in org.example">Empleado</a></dt>
+<dd>
+<div class="block">Devuelve una representación de cadena de este objeto.</div>
+</dd>
+<dt><a href="../org/example/Invitacion.html#toString()" class="member-name-link">toString()</a> - Method in class org.example.<a href="../org/example/Invitacion.html" title="class in org.example">Invitacion</a></dt>
+<dd>
+<div class="block">Devuelve una representación de cadena de este objeto.</div>
 </dd>
 <dt><a href="../org/example/Nota.html#toString()" class="member-name-link">toString()</a> - Method in class org.example.<a href="../org/example/Nota.html" title="class in org.example">Nota</a></dt>
 <dd>

diff --git a/JavaDoc/org/example/class-use/EstadoAsistencia.html b/JavaDoc/org/example/class-use/EstadoAsistencia.html
@@ -1,7 +1,7 @@
 <!DOCTYPE HTML>
 <html lang="en">
 <head>
-<!-- Generated by javadoc (22) on Thu May 16 05:26:33 CLT 2024 -->
+<!-- Generated by javadoc (22) on Thu May 16 06:13:41 CLT 2024 -->
 <title>Uses of Enum Class org.example.EstadoAsistencia</title>
 <meta name="viewport" content="width=device-width, initial-scale=1">
 <meta http-equiv="Content-Type" content="text/html; charset=utf-8">

diff --git a/JavaDoc/org/example/class-use/DepartamentoTest.html b/JavaDoc/org/example/class-use/DepartamentoTest.html
@@ -1,7 +1,7 @@
 <!DOCTYPE HTML>
 <html lang="en">
 <head>
-<!-- Generated by javadoc (22) on Thu May 16 05:26:33 CLT 2024 -->
+<!-- Generated by javadoc (22) on Thu May 16 06:13:41 CLT 2024 -->
 <title>Uses of Class org.example.DepartamentoTest</title>
 <meta name="viewport" content="width=device-width, initial-scale=1">
 <meta http-equiv="Content-Type" content="text/html; charset=utf-8">

diff --git a/JavaDoc/org/example/class-use/TipoReunion.html b/JavaDoc/org/example/class-use/TipoReunion.html
@@ -1,7 +1,7 @@
 <!DOCTYPE HTML>
 <html lang="en">
 <head>
-<!-- Generated by javadoc (22) on Thu May 16 05:26:33 CLT 2024 -->
+<!-- Generated by javadoc (22) on Thu May 16 06:13:41 CLT 2024 -->
 <title>Uses of Enum Class org.example.TipoReunion</title>
 <meta name="viewport" content="width=device-width, initial-scale=1">
 <meta http-equiv="Content-Type" content="text/html; charset=utf-8">

diff --git a/JavaDoc/org/example/class-use/AsistenciaTest.html b/JavaDoc/org/example/class-use/AsistenciaTest.html
@@ -1,7 +1,7 @@
 <!DOCTYPE HTML>
 <html lang="en">
 <head>
-<!-- Generated by javadoc (22) on Thu May 16 05:26:33 CLT 2024 -->
+<!-- Generated by javadoc (22) on Thu May 16 06:13:41 CLT 2024 -->
 <title>Uses of Class org.example.AsistenciaTest</title>
 <meta name="viewport" content="width=device-width, initial-scale=1">
 <meta http-equiv="Content-Type" content="text/html; charset=utf-8">

diff --git a/JavaDoc/org/example/class-use/Invitable.html b/JavaDoc/org/example/class-use/Invitable.html
@@ -1,7 +1,7 @@
 <!DOCTYPE HTML>
 <html lang="en">
 <head>
-<!-- Generated by javadoc (22) on Thu May 16 05:26:33 CLT 2024 -->
+<!-- Generated by javadoc (22) on Thu May 16 06:13:41 CLT 2024 -->
 <title>Uses of Interface org.example.Invitable</title>
 <meta name="viewport" content="width=device-width, initial-scale=1">
 <meta http-equiv="Content-Type" content="text/html; charset=utf-8">

diff --git a/JavaDoc/org/example/class-use/Departamento.html b/JavaDoc/org/example/class-use/Departamento.html
@@ -1,7 +1,7 @@
 <!DOCTYPE HTML>
 <html lang="en">
 <head>
-<!-- Generated by javadoc (22) on Thu May 16 05:26:33 CLT 2024 -->
+<!-- Generated by javadoc (22) on Thu May 16 06:13:41 CLT 2024 -->
 <title>Uses of Class org.example.Departamento</title>
 <meta name="viewport" content="width=device-width, initial-scale=1">
 <meta http-equiv="Content-Type" content="text/html; charset=utf-8">
